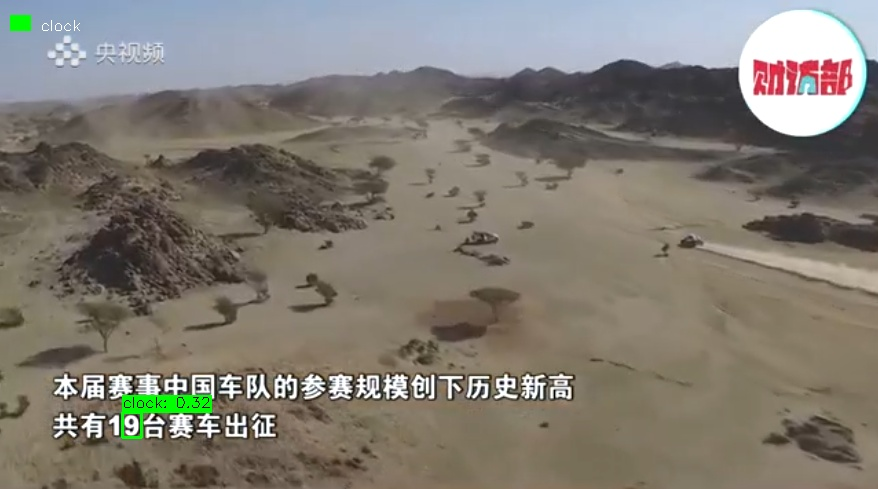
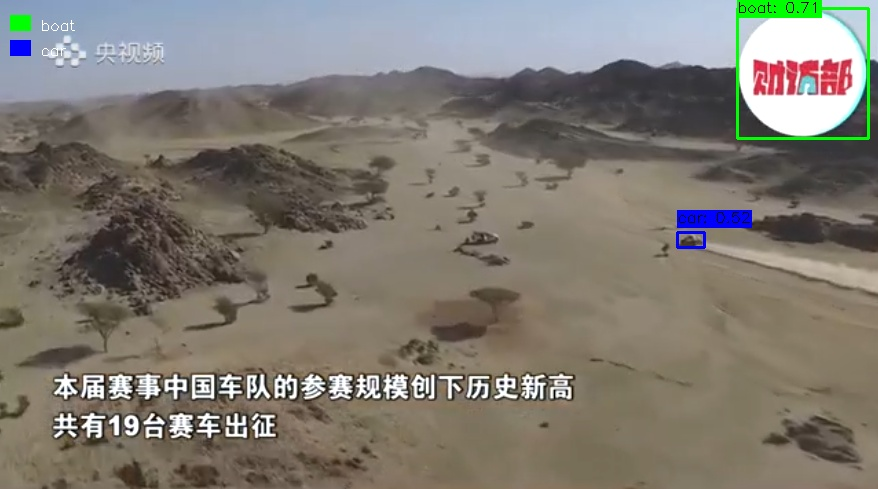
yolo preprocess

diff --git a/src/detect_yolov8s_preprocess.py b/src/detect_yolov8s_preprocess.py
@@ -1,5 +1,5 @@
 """
-YOLOv8s 车辆检测脚本 - 预处理版本（CLAHE + 锐化）
+YOLOv8s 车辆检测脚本 - (CLAHE + 锐化 + 去灰）
 """
 
 import time
@@ -26,6 +26,7 @@ DEFAULT_CONFIG = {
         "enabled": True,
         "clahe_clip_limit": 2.0,
         "sharpen": True,
+        "color_correction": True,
     },
     "paths": {
         "input_dir": "data",
@@ -55,11 +56,28 @@ def load_config(config_path: str = "config/yolov8s_preprocess.yaml") -> dict:
     return config
 
 
-def simple_preprocess(image_path: str, clip_limit: float = 2.0, sharpen: bool = False) -> np.ndarray:
-    """预处理：CLAHE对比度增强 + 可选锐化"""
+def color_correction(image: np.ndarray) -> np.ndarray:
+    """
+    色彩校正：去除沙尘导致的偏黄/偏灰
+    使用灰度世界算法
+    """
+    result = image.copy().astype(np.float32)
+    mean_rgb = result.mean(axis=(0, 1))
+    gray_value = mean_rgb.mean()
+    for i in range(3):
+        if mean_rgb[i] != 0:
+            result[:, :, i] = result[:, :, i] * (gray_value / mean_rgb[i])
+    return np.clip(result, 0, 255).astype(np.uint8)
+
+
+def simple_preprocess(image_path: str, clip_limit: float = 2.0, sharpen: bool = False, color_correct: bool = False) -> np.ndarray:
+    """预处理：色彩校正 + CLAHE对比度增强 + 可选锐化"""
     img = cv2.imread(image_path)
     if img is None:
         raise ValueError(f"无法读取图片: {image_path}")
+    
+    if color_correct:
+        img = color_correction(img)
     
     lab = cv2.cvtColor(img, cv2.COLOR_BGR2LAB)
     l, a, b = cv2.split(lab)
@@ -79,6 +97,24 @@ def simple_preprocess(image_path: str, clip_limit: float = 2.0, sharpen: bool = 
     return result
 
 
+def draw_single_box(img, x1, y1, x2, y2, label, color):
+    """绘制单个边界框和标签（带背景色）"""
+    h, w = img.shape[:2]
+    x1, y1 = max(0, x1), max(0, y1)
+    x2, y2 = min(w, x2), min(h, y2)
+    
+    # 绘制边界框
+    cv2.rectangle(img, (x1, y1), (x2, y2), color, 2)
+    
+    # 绘制标签背景
+    label_size, _ = cv2.getTextSize(label, cv2.FONT_HERSHEY_SIMPLEX, 0.5, 1)
+    label_y = max(y1 - 5, label_size[1] + 5)
+    cv2.rectangle(img, (x1, label_y - label_size[1] - 5), (x1 + label_size[0], label_y), color, -1)
+    
+    # 绘制标签文字
+    cv2.putText(img, label, (x1, label_y - 5), cv2.FONT_HERSHEY_SIMPLEX, 0.5, (0, 0, 0), 1)
+
+
 def draw_all_boxes(image_path: str, detections: list, output_path: str):
     """在原图上绘制所有检测到的物体（不同类别用不同颜色）"""
     img = cv2.imread(image_path)
@@ -88,40 +124,28 @@ def draw_all_boxes(image_path: str, detections: list, output_path: str):
     
     h, w = img.shape[:2]
     
-    # 为不同类别分配不同颜色
     colors = {}
     color_list = [
-        (0, 255, 0),    # 绿色 - car
-        (255, 0, 0),    # 蓝色 - truck
-        (0, 0, 255),    # 红色 - bus
-        (255, 255, 0),  # 青色 - motorcycle
-        (255, 0, 255),  # 紫色 - bicycle
-        (0, 255, 255),  # 黄色 - train
-        (128, 0, 128),  # 紫色 - 其他
+        (0, 255, 0),    # 绿色
+        (255, 0, 0),    # 蓝色
+        (0, 0, 255),    # 红色
+        (255, 255, 0),  # 青色
+        (255, 0, 255),  # 紫色
+        (0, 255, 255),  # 黄色
+        (128, 0, 128),  # 紫罗兰
     ]
     
-    for i, det in enumerate(detections):
+    for det in detections:
         x1, y1, x2, y2 = [int(coord) for coord in det["bbox"]]
         confidence = det["confidence"]
         class_name = det.get("class", "unknown")
         
-        # 确保坐标在图片范围内
-        x1, y1 = max(0, x1), max(0, y1)
-        x2, y2 = min(w, x2), min(h, y2)
-        
-        # 为每个类别分配颜色
         if class_name not in colors:
             colors[class_name] = color_list[len(colors) % len(color_list)]
         color = colors[class_name]
         
-        # 绘制边界框
-        cv2.rectangle(img, (x1, y1), (x2, y2), color, 2)
-        
-        # 添加标签（类别名 + 置信度）
         label = f"{class_name}: {confidence:.2f}"
-        label_size, _ = cv2.getTextSize(label, cv2.FONT_HERSHEY_SIMPLEX, 0.5, 1)
-        cv2.rectangle(img, (x1, y1 - label_size[1] - 5), (x1 + label_size[0], y1), color, -1)
-        cv2.putText(img, label, (x1, y1 - 5), cv2.FONT_HERSHEY_SIMPLEX, 0.5, (0, 0, 0), 1)
+        draw_single_box(img, x1, y1, x2, y2, label, color)
     
     # 添加图例
     legend_y = 30
@@ -134,6 +158,25 @@ def draw_all_boxes(image_path: str, detections: list, output_path: str):
     print(f"标注图（所有物体）: {output_path}")
 
 
+def draw_vehicle_boxes(image_path: str, detections: list, output_path: str):
+    """绘制车辆检测框"""
+    img = cv2.imread(image_path)
+    if img is None:
+        print(f"无法读取图片: {image_path}")
+        return
+    
+    for det in detections:
+        x1, y1, x2, y2 = [int(coord) for coord in det["bbox"]]
+        confidence = det["confidence"]
+        
+        label = f"vehicle: {confidence:.2f}"
+        # 使用绿色，和之前保持一致
+        draw_single_box(img, x1, y1, x2, y2, label, (0, 255, 0))
+    
+    cv2.imwrite(output_path, img)
+    print(f"车辆标注图: {output_path}")
+
+
 def detect_vehicles(image_path: str, config: dict) -> dict:
     """检测所有物体（不限于车辆）"""
     print(f"检测: {Path(image_path).name}")
@@ -143,10 +186,14 @@ def detect_vehicles(image_path: str, config: dict) -> dict:
     if pre_cfg.get("enabled", True):
         clip_limit = pre_cfg.get("clahe_clip_limit", 2.0)
         sharpen = pre_cfg.get("sharpen", False)
-        processed_img = simple_preprocess(image_path, clip_limit, sharpen)
+        color_correct = pre_cfg.get("color_correction", False)
+        processed_img = simple_preprocess(image_path, clip_limit, sharpen, color_correct)
         source = processed_img
         
-        pre_steps = [f"CLAHE(强度={clip_limit})"]
+        pre_steps = []
+        if color_correct:
+            pre_steps.append("去灰")
+        pre_steps.append(f"CLAHE(强度={clip_limit})")
         if sharpen:
             pre_steps.append("锐化")
         print(f"   预处理: {' + '.join(pre_steps)}")
@@ -164,7 +211,6 @@ def detect_vehicles(image_path: str, config: dict) -> dict:
     results = model.predict(source=source, conf=conf_threshold, imgsz=imgsz, verbose=False)
     elapsed_ms = (time.time() - start_time) * 1000
     
-    # 解析所有检测结果
     all_detections = []
     vehicle_detections = []
     
@@ -183,8 +229,7 @@ def detect_vehicles(image_path: str, config: dict) -> dict:
             })
             
             print(f"     - {class_name}: conf={confidence:.3f}, "
-                  f"size={int(x2-x1)}x{int(y2-y1)}, "
-                  f"位置=[{x1:.0f},{y1:.0f},{x2:.0f},{y2:.0f}]")
+                  f"size={int(x2-x1)}x{int(y2-y1)}")
             
             if class_name.lower() in VEHICLE_CLASSES:
                 vehicle_detections.append({
@@ -213,7 +258,7 @@ def main():
     output_dir = Path(config["paths"]["output_dir"]) / "preprocess_result"
     
     print("\n" + "=" * 50)
-    print(" YOLOv8s 检测 - CLAHE + 锐化版")
+    print(" YOLOv8s 检测 - CLAHE + 锐化 + 去灰版")
     print("=" * 50)
     
     output_dir.mkdir(parents=True, exist_ok=True)
@@ -234,18 +279,13 @@ def main():
     result = detect_vehicles(str(image_path), config)
     print_summary(result)
     
-    # ===== 关键修改：标注所有检测到的物体 =====
     if result["all_detections"]:
-        # 标注所有物体（不限于车辆）
         annotated_path = output_dir / f"result_all_{image_path.stem}.jpg"
         draw_all_boxes(str(image_path), result["all_detections"], str(annotated_path))
         
-        # 如果只想要车辆标注，可以再保存一份
         if result["detections"]:
             vehicle_annotated_path = output_dir / f"result_vehicle_{image_path.stem}.jpg"
-            from utils import draw_boxes
-            draw_boxes(str(image_path), result["detections"], str(vehicle_annotated_path))
-            print(f"车辆标注图: {vehicle_annotated_path}")
+            draw_vehicle_boxes(str(image_path), result["detections"], str(vehicle_annotated_path))
     else:
         print("未检测到任何物体")
     
